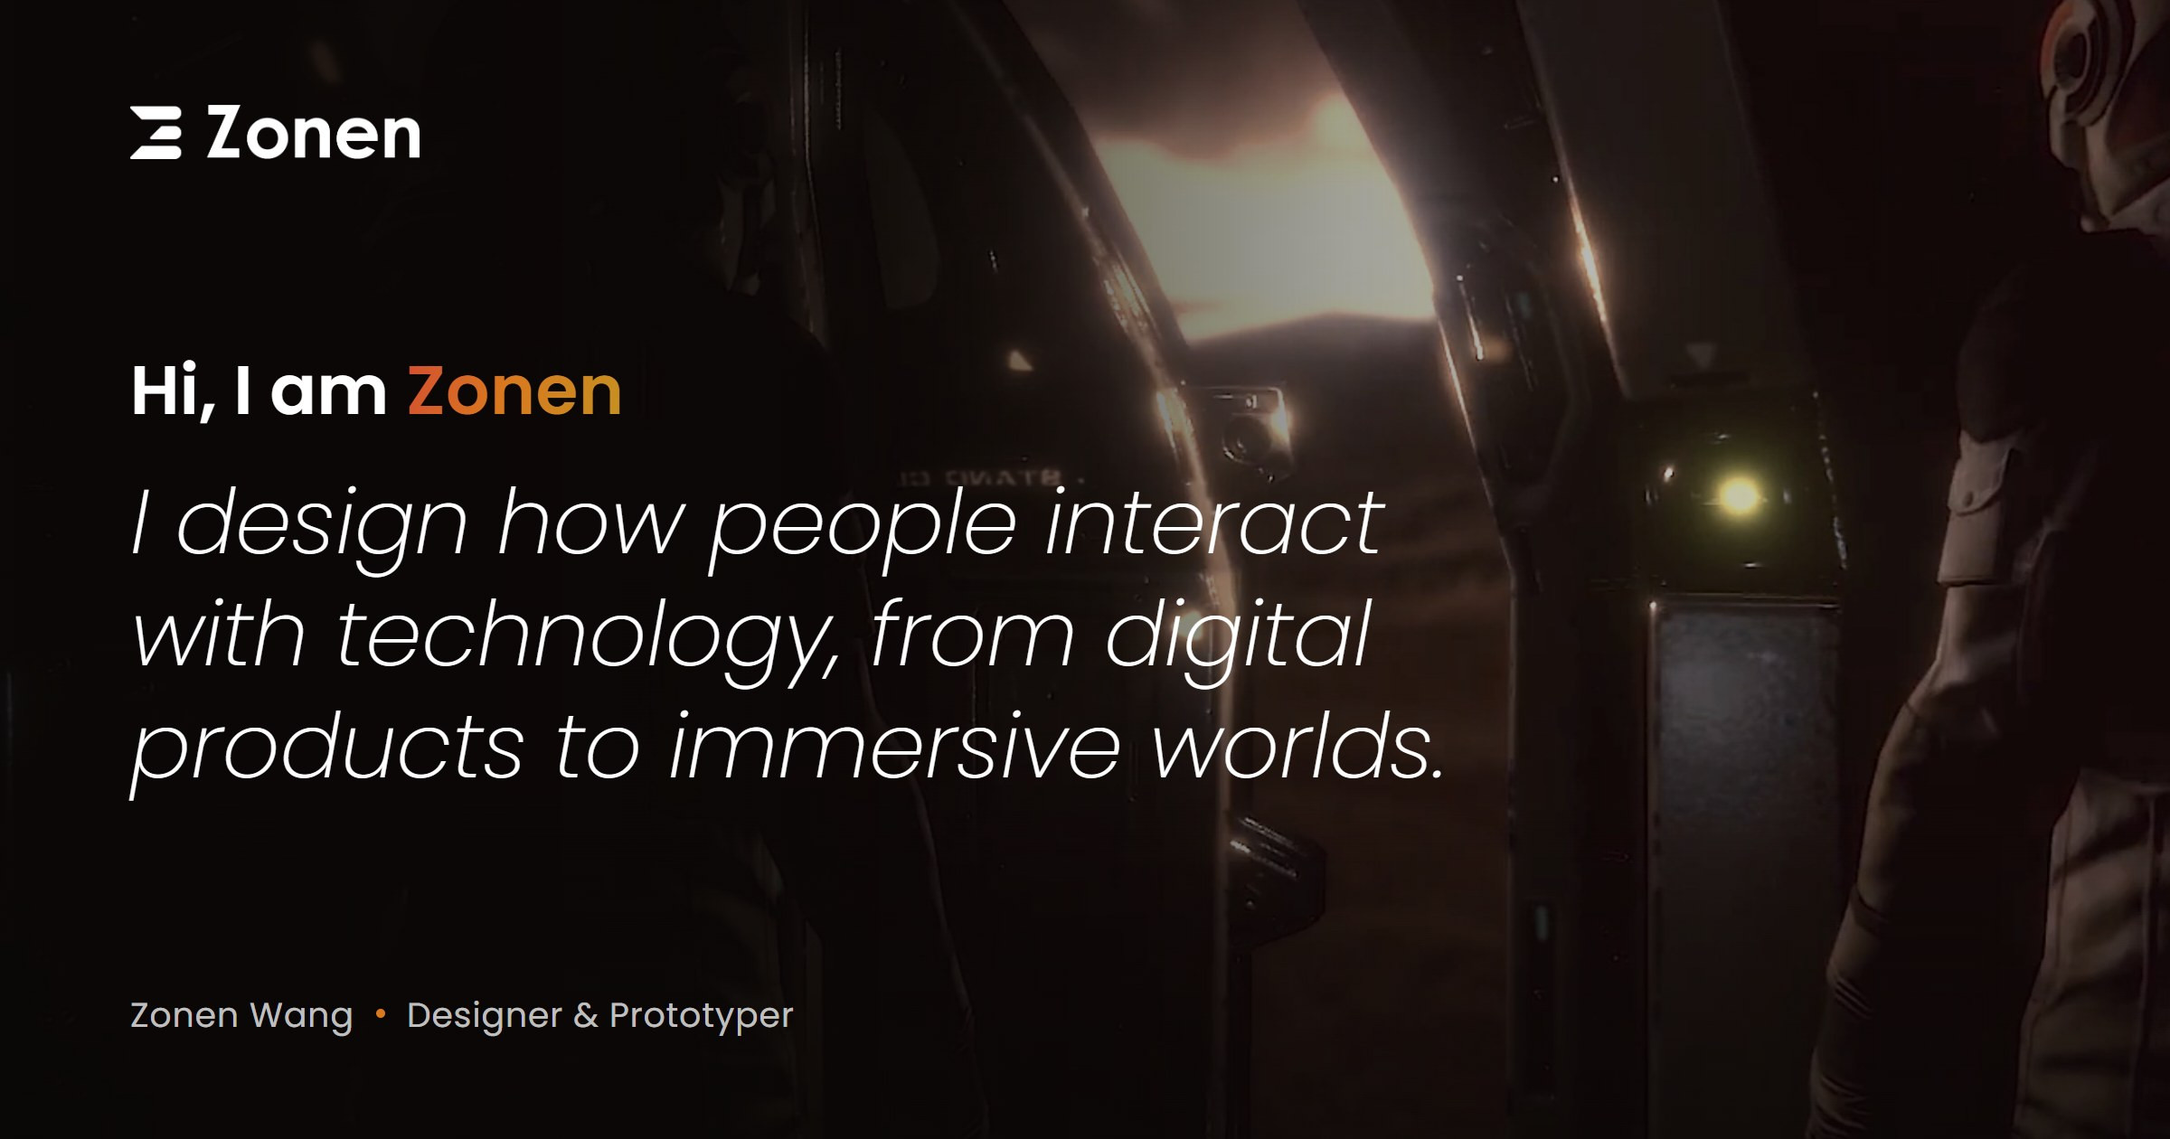
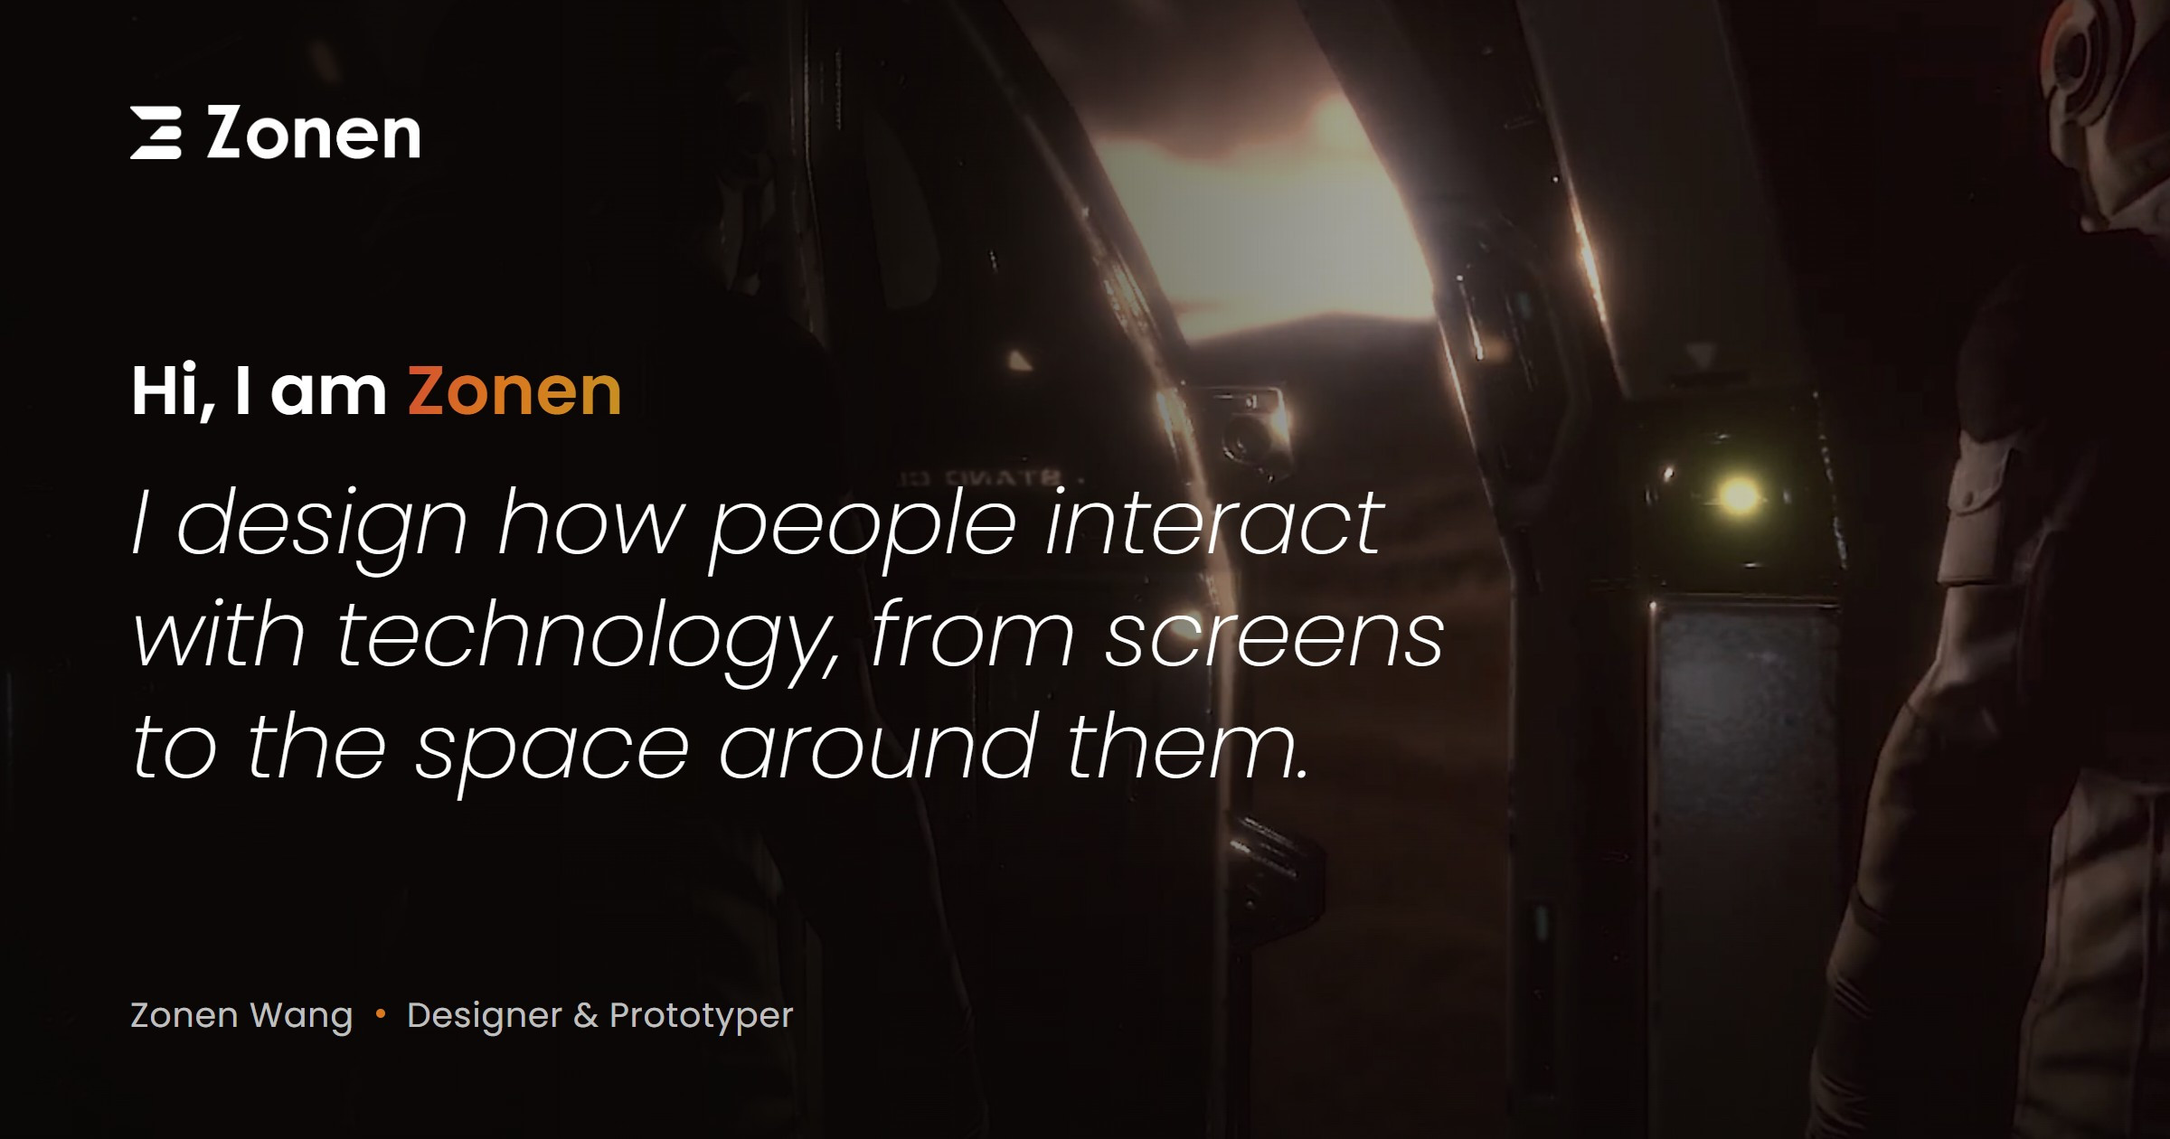
Update home tagline and share image
From 'from digital products to immersive worlds' to 'from screens to the space around them'.

Changed region(s): [[0.0625, 0.619, 0.6562, 0.681], [0.5, 0.5262, 0.6562, 0.5881]]

diff --git a/index.html b/index.html
@@ -27,14 +27,14 @@
 </head>
 <body class="pg-home">
 <div id="top"></div>
-<div class="D"><header class="hdr" style="height:53px"><div class="c" style="left:0;right:0;top:0px;height:53px;background-color:rgb(255, 255, 255);box-shadow:rgba(0, 0, 0, 0.39) 0px 0px 5px 0px"></div><a class="c" href="/" style="left:calc(50% + -678px);width:170px;top:13px;height:32px"><img class="f" src="/assets/img/zonen-header-ebbf03.webp" alt="Zonen Wang — Home" width="170" height="32" loading="lazy" decoding="async" style="object-fit:cover"></a><nav class="c mn" aria-label="Site" style="left:calc(50% + 193px);width:350px;top:8px;height:40px"><a class="mi" href="/" style="left:0px;top:0px;width:98px;height:40px"><span class="t0" style="left:24.52px;top:0px;width:68.48px;height:40px">Home.</span></a><a class="mi" href="/photography" style="left:98px;top:0px;width:153px;height:40px;--hc:rgb(210, 160, 110)"><span class="t1" style="left:24.98px;top:0px;width:123.02px;height:40px">Photography.</span></a><a class="mi" href="/about" style="left:251px;top:0px;width:99px;height:40px;--hc:rgb(210, 160, 110)"><span class="t1" style="left:24.7px;top:0px;width:69.3px;height:40px">About.</span></a></nav><div class="c" style="left:calc(50% + 279px);width:40px;top:19px;height:1px;border-top:1px solid rgba(51, 51, 51, 0.26);transform:matrix(0, 1, -1, 0, 0, 0)"></div><div class="c" style="left:calc(50% + 434.5px);width:40px;top:10.5px;height:10px;border-top:1px solid rgba(51, 51, 51, 0.26);transform:matrix(0, 1, -1, 0, 0, 0)"></div><a class="c btn bd1" href="#bottom" aria-label="Contact" style="left:calc(50% + 567px);width:107px;top:10px;height:32px"><span class="bp p1" style="left:0px;top:0px;width:107px;height:32px;background-color:rgb(255, 255, 255);border-top:1px solid rgb(210, 160, 110);border-right:1px solid rgb(210, 160, 110);border-bottom:1px solid rgb(210, 160, 110);border-left:1px solid rgb(210, 160, 110);border-radius:20px"></span><span class="bp bl p3 t2" style="left:22px;top:5.5px;width:63px;height:21px">Contact</span></a></header><main class="pg" style="height:5037px"><div class="anc" data-a="mr" style="top:3320px"></div><div class="anc" data-a="beyond" style="top:1822px"></div><div class="anc" data-a="tteh" style="top:2572px"></div><div class="anc" data-a="mars" style="top:4070px"></div><div class="anc" data-a="microsoft-mesh" style="top:1073px"></div><div class="c bg" data-px="0.2" style="left:0px;width:calc(100% - 0px);top:0px;height:947px"><video class="f pxm" muted loop playsinline autoplay preload="none" data-src="/assets/video/v-b8393460f2.mp4" poster="/assets/video/v-b8393460f2.webp" style="object-fit:cover;object-position:50% 50%"></video><div class="f" style="background:linear-gradient(90deg, rgba(0, 0, 0, 0.455) 0%, rgba(0, 0, 0, 0.455) 20.0%, rgba(0, 0, 0, 0.434) 27.5%, rgba(0, 0, 0, 0.385) 35.0%, rgba(0, 0, 0, 0.308) 42.5%, rgba(0, 0, 0, 0.231) 50.0%, rgba(0, 0, 0, 0.147) 57.5%, rgba(0, 0, 0, 0.070) 65.0%, rgba(0, 0, 0, 0.021) 72.5%, rgba(0, 0, 0, 0.000) 80.0%, rgba(0, 0, 0, 0.000) 100%)"></div></div><iframe class="c" src="/assets/embed/109903_b6bcd4e0e0bbbe825ba04d945687de17.html" title="Embedded Content" allowfullscreen style="left:calc(50% + -720px);width:497px;top:237px;height:139px"></iframe><div class="c tx t3" style="left:calc(50% + -670px);width:164px;top:283px"><h1 class="t4"><span class="t5"><span><span><span class="t6">Hi, I am&nbsp;</span></span></span></span></h1></div><a class="c btn bd2" href="/about" style="left:calc(50% + -673px);width:368px;top:286px;height:40px"></a><div class="c tx t3" style="left:calc(50% + -670px);width:803px;top:365px"><h1 class="t7"><span class="t8"><span><span><span class="t9"><a href="/about"><span class="t6">I design how people interact with technology, from digital products to immersive worlds.</span></a></span></span></span></span></h1></div><iframe class="c" src="/assets/embed/109903_edf281dc4c96af7ceac7797b8c1a80d2.html" title="Embedded Content" allowfullscreen style="left:calc(50% + -720px);width:114px;top:742px;height:171px"></iframe><a class="c btn bd3" href="#showreel" data-lightbox="vimeo" aria-label="Watch Showreel" style="left:calc(50% + -70px);width:142px;top:836px;height:40px"><span class="bp p1" style="left:0px;top:0px;width:142px;height:40px;background-color:rgba(160, 160, 159, 0.4);border-radius:50px"></span><span class="bp bl p3 ta" style="left:12.5px;top:9.5px;width:116.98px;height:21px">Watch Showreel</span></a><iframe class="c" src="/assets/embed/109903_2af84b2ef0a06e7c054bdfbc6f51e38e.html" title="Embedded Content" allowfullscreen style="left:0px;width:calc(100% - 0px);top:949px;height:4088px"></iframe><div class="c" style="left:calc(50% + 82px);width:24px;top:1025px;height:31px;background-color:rgb(243, 243, 243);border-radius:10px"></div></main><footer class="ftr" style="height:590px"><div class="c" style="left:0;right:0;top:0px;height:590px;background-color:rgb(36, 35, 35)"></div><iframe class="c" src="/assets/embed/109903_bbda5924f918b3c10ad8a4ff717e126e.html" title="Embedded Content" loading="lazy" allowfullscreen style="left:0px;width:calc(100% - 0px);top:8px;height:333px"></iframe><div class="c tx t3" style="left:32px;width:401px;top:191px"><h3 class="tb"><span class="tc">Contact</span></h3>
+<div class="D"><header class="hdr" style="height:53px"><div class="c" style="left:0;right:0;top:0px;height:53px;background-color:rgb(255, 255, 255);box-shadow:rgba(0, 0, 0, 0.39) 0px 0px 5px 0px"></div><a class="c" href="/" style="left:calc(50% + -678px);width:170px;top:13px;height:32px"><img class="f" src="/assets/img/zonen-header-ebbf03.webp" alt="Zonen Wang — Home" width="170" height="32" loading="lazy" decoding="async" style="object-fit:cover"></a><nav class="c mn" aria-label="Site" style="left:calc(50% + 193px);width:350px;top:8px;height:40px"><a class="mi" href="/" style="left:0px;top:0px;width:98px;height:40px"><span class="t0" style="left:24.52px;top:0px;width:68.48px;height:40px">Home.</span></a><a class="mi" href="/photography" style="left:98px;top:0px;width:153px;height:40px;--hc:rgb(210, 160, 110)"><span class="t1" style="left:24.98px;top:0px;width:123.02px;height:40px">Photography.</span></a><a class="mi" href="/about" style="left:251px;top:0px;width:99px;height:40px;--hc:rgb(210, 160, 110)"><span class="t1" style="left:24.7px;top:0px;width:69.3px;height:40px">About.</span></a></nav><div class="c" style="left:calc(50% + 279px);width:40px;top:19px;height:1px;border-top:1px solid rgba(51, 51, 51, 0.26);transform:matrix(0, 1, -1, 0, 0, 0)"></div><div class="c" style="left:calc(50% + 434.5px);width:40px;top:10.5px;height:10px;border-top:1px solid rgba(51, 51, 51, 0.26);transform:matrix(0, 1, -1, 0, 0, 0)"></div><a class="c btn bd1" href="#bottom" aria-label="Contact" style="left:calc(50% + 567px);width:107px;top:10px;height:32px"><span class="bp p1" style="left:0px;top:0px;width:107px;height:32px;background-color:rgb(255, 255, 255);border-top:1px solid rgb(210, 160, 110);border-right:1px solid rgb(210, 160, 110);border-bottom:1px solid rgb(210, 160, 110);border-left:1px solid rgb(210, 160, 110);border-radius:20px"></span><span class="bp bl p3 t2" style="left:22px;top:5.5px;width:63px;height:21px">Contact</span></a></header><main class="pg" style="height:5037px"><div class="anc" data-a="mr" style="top:3320px"></div><div class="anc" data-a="beyond" style="top:1822px"></div><div class="anc" data-a="tteh" style="top:2572px"></div><div class="anc" data-a="mars" style="top:4070px"></div><div class="anc" data-a="microsoft-mesh" style="top:1073px"></div><div class="c bg" data-px="0.2" style="left:0px;width:calc(100% - 0px);top:0px;height:947px"><video class="f pxm" muted loop playsinline autoplay preload="none" data-src="/assets/video/v-b8393460f2.mp4" poster="/assets/video/v-b8393460f2.webp" style="object-fit:cover;object-position:50% 50%"></video><div class="f" style="background:linear-gradient(90deg, rgba(0, 0, 0, 0.455) 0%, rgba(0, 0, 0, 0.455) 20.0%, rgba(0, 0, 0, 0.434) 27.5%, rgba(0, 0, 0, 0.385) 35.0%, rgba(0, 0, 0, 0.308) 42.5%, rgba(0, 0, 0, 0.231) 50.0%, rgba(0, 0, 0, 0.147) 57.5%, rgba(0, 0, 0, 0.070) 65.0%, rgba(0, 0, 0, 0.021) 72.5%, rgba(0, 0, 0, 0.000) 80.0%, rgba(0, 0, 0, 0.000) 100%)"></div></div><iframe class="c" src="/assets/embed/109903_b6bcd4e0e0bbbe825ba04d945687de17.html" title="Embedded Content" allowfullscreen style="left:calc(50% + -720px);width:497px;top:237px;height:139px"></iframe><div class="c tx t3" style="left:calc(50% + -670px);width:164px;top:283px"><h1 class="t4"><span class="t5"><span><span><span class="t6">Hi, I am&nbsp;</span></span></span></span></h1></div><a class="c btn bd2" href="/about" style="left:calc(50% + -673px);width:368px;top:286px;height:40px"></a><div class="c tx t3" style="left:calc(50% + -670px);width:803px;top:365px"><h1 class="t7"><span class="t8"><span><span><span class="t9"><a href="/about"><span class="t6">I design how people interact with technology, from screens to the space around them.</span></a></span></span></span></span></h1></div><iframe class="c" src="/assets/embed/109903_edf281dc4c96af7ceac7797b8c1a80d2.html" title="Embedded Content" allowfullscreen style="left:calc(50% + -720px);width:114px;top:742px;height:171px"></iframe><a class="c btn bd3" href="#showreel" data-lightbox="vimeo" aria-label="Watch Showreel" style="left:calc(50% + -70px);width:142px;top:836px;height:40px"><span class="bp p1" style="left:0px;top:0px;width:142px;height:40px;background-color:rgba(160, 160, 159, 0.4);border-radius:50px"></span><span class="bp bl p3 ta" style="left:12.5px;top:9.5px;width:116.98px;height:21px">Watch Showreel</span></a><iframe class="c" src="/assets/embed/109903_2af84b2ef0a06e7c054bdfbc6f51e38e.html" title="Embedded Content" allowfullscreen style="left:0px;width:calc(100% - 0px);top:949px;height:4088px"></iframe><div class="c" style="left:calc(50% + 82px);width:24px;top:1025px;height:31px;background-color:rgb(243, 243, 243);border-radius:10px"></div></main><footer class="ftr" style="height:590px"><div class="c" style="left:0;right:0;top:0px;height:590px;background-color:rgb(36, 35, 35)"></div><iframe class="c" src="/assets/embed/109903_bbda5924f918b3c10ad8a4ff717e126e.html" title="Embedded Content" loading="lazy" allowfullscreen style="left:0px;width:calc(100% - 0px);top:8px;height:333px"></iframe><div class="c tx t3" style="left:32px;width:401px;top:191px"><h3 class="tb"><span class="tc">Contact</span></h3>
 
 <h3 class="tb"><span class="tc">me</span></h3></div><div class="c" style="left:calc(50% + -130px);width:419px;top:316px;height:12px;background-color:rgb(255, 255, 255)"></div><a class="c" href="mailto:wangzhuoneng@gmail.com" aria-label="mail-icon-white-23 copy" style="left:calc(50% + -130px);width:39px;top:208px;height:39px"><img class="f" src="/assets/img/109903-87475da7c7e04d47bedc58340196479f--ee0b17.webp" alt="mail-icon-white-23 copy" width="39" height="39" loading="lazy" decoding="async" style="object-fit:cover"></a><a class="c" href="https://www.linkedin.com/in/zhuonengwang/" target="_blank" rel="noopener" aria-label="LinkedIn" style="left:calc(50% + -59px);width:39px;top:208px;height:39px"><img class="f" src="/assets/img/f61c7a3b4b4947b28511a25034973383-2ff2f0.webp" alt="LinkedIn" width="39" height="39" loading="lazy" decoding="async" style="object-fit:cover"></a><a class="c" href="https://www.instagram.com/znwang_/" target="_blank" rel="noopener" aria-label="Instagram" style="left:calc(50% + 12px);width:39px;top:208px;height:39px"><img class="f" src="/assets/img/da7ef6dd1302486c9a67baebe4b364bc-6ecc4a.webp" alt="Instagram" width="39" height="39" loading="lazy" decoding="async" style="object-fit:cover"></a><a class="c" href="https://www.facebook.com/profile.php?id=100005697484093" target="_blank" rel="noopener" aria-label="Facebook" style="left:calc(50% + 83px);width:39px;top:208px;height:39px"><img class="f" src="/assets/img/e0678ef25486466ba65ef6ad47b559e1-b30659.webp" alt="Facebook" width="39" height="39" loading="lazy" decoding="async" style="object-fit:cover"></a><img class="c" src="/assets/img/zhuoneng-revision-2-logo-only-white-c1678e.webp" alt="Zonen Revision 2 Logo only white" width="91" height="92" loading="lazy" decoding="async" style="right:32px;width:91px;top:191px;height:92px;object-fit:cover"><div class="c tx t3" style="left:calc(50% + -130px);width:499px;top:380px"><p class="td"><span class="te"><span><span class="tf"><a href="mailto:wangzhuoneng@gmail.com">wangzhuoneng@gmail.com</a></span></span></span></p></div></footer><div class="fxl"><a class="c btn bd4" href="#top" aria-label="Up" style="position:fixed;right:7px;bottom:44px;width:36px;height:36px;z-index:53;translate:min(0px,calc((1440px - var(--cw,100vw))/2 + 17px)) 0"><span class="bp p1" style="left:0px;top:0px;width:36px;height:36px;background-color:rgba(243, 243, 243, 0.35);border-radius:200px;box-shadow:rgb(0, 0, 0) 0px 0px 15px -10px"></span><span class="bp p6" style="left:7.5px;top:7.5px;width:21px;height:21px"><svg viewBox="0 0 200 200" height="100%" width="100%" xmlns="http://www.w3.org/2000/svg">
     <g fill="rgb(0, 0, 0)" stroke="none">
         <path d="M177.687 128.054L105.35 61.402a7.205 7.205 0 0 0-5.35-1.886 7.198 7.198 0 0 0-5.349 1.886l-72.338 66.652a7.165 7.165 0 0 0-.407 10.138 7.172 7.172 0 0 0 5.283 2.309c1.743 0 3.49-.629 4.872-1.902L100 75.999l67.939 62.598a7.197 7.197 0 0 0 10.155-.406 7.163 7.163 0 0 0-.407-10.137z" fill="rgb(0, 0, 0)" stroke="none"></path>
     </g>
 </svg></span></a></div></div>
-<div class="M"><header class="hdr" style="height:50px"><div class="c" style="left:0;right:0;top:0px;height:50px;background-color:rgb(255, 255, 255);box-shadow:rgba(0, 0, 0, 0.39) 0px 0px 5px 0px"></div><a class="c" href="/" style="left:117px;width:120px;top:10px;height:23px"><img class="f" src="/assets/img/zonen-header-24da62.webp" alt="Zonen Wang — Home" width="120" height="23" loading="lazy" decoding="async" style="object-fit:cover"></a><button class="hb" aria-label="Open navigation menu" aria-expanded="false"><i></i><i></i><i></i></button><div class="mm" hidden><div class="mm-ov"></div><nav class="mm-dr" aria-label="Site"><a href="/" class="on" style="top:92px">Home.</a><a href="/photography" style="top:148px">Photography.</a><a href="/about" style="top:204px">About.</a></nav></div></header><main class="pg" style="height:2182.69px"><div class="c bg" style="left:0px;width:320px;top:0px;height:216px"><video class="f" muted loop playsinline autoplay preload="none" data-src="/assets/video/v-b8393460f2.mp4" poster="/assets/video/v-b8393460f2.webp" style="object-fit:cover;object-position:50% 50%"></video><div class="f" style="background:linear-gradient(90deg, rgba(0, 0, 0, 0.385) 0%, rgba(0, 0, 0, 0.385) 10.0%, rgba(0, 0, 0, 0.378) 20.6%, rgba(0, 0, 0, 0.357) 31.2%, rgba(0, 0, 0, 0.329) 41.9%, rgba(0, 0, 0, 0.294) 52.5%, rgba(0, 0, 0, 0.266) 63.1%, rgba(0, 0, 0, 0.238) 73.8%, rgba(0, 0, 0, 0.217) 84.4%, rgba(0, 0, 0, 0.210) 95.0%, rgba(0, 0, 0, 0.210) 100%)"></div></div><iframe class="c" src="/assets/embed/109903_ea360afa297e36c4a1ff7d394d878914.html" title="Embedded Content" allowfullscreen style="left:63px;width:126px;top:35px;height:32px"></iframe><div class="c tx t3" style="left:20px;width:64px;top:40px"><h1 class="t10"><span class="t5"><span><span><span class="t6">Hi, I am&nbsp;</span></span></span></span></h1></div><div class="c tx t3" style="left:20px;width:270px;top:71px"><h1 class="t11"><span class="t8"><span><span><span class="t9"><a href="/about"><span class="t6">I design how people interact with technology, from digital products to immersive worlds.</span></a></span></span></span></span></h1></div><div class="c" style="left:0px;width:320px;top:240px;height:162px;background-color:rgb(242, 243, 244);border-top:1px solid rgb(221, 224, 227);border-right:1px solid rgb(221, 224, 227);border-bottom:1px solid rgb(221, 224, 227);border-left:1px solid rgb(221, 224, 227)"></div><div class="c sv" style="left:148px;width:24px;top:260px;height:24px"><svg preserveAspectRatio="xMidYMid meet" stroke-linejoin="round" stroke-linecap="round" stroke-width="2" stroke="#454545" viewBox="0 0 24 24" height="100%" width="100%" xmlns="http://www.w3.org/2000/svg" role="presentation" aria-hidden="true" aria-label="">
+<div class="M"><header class="hdr" style="height:50px"><div class="c" style="left:0;right:0;top:0px;height:50px;background-color:rgb(255, 255, 255);box-shadow:rgba(0, 0, 0, 0.39) 0px 0px 5px 0px"></div><a class="c" href="/" style="left:117px;width:120px;top:10px;height:23px"><img class="f" src="/assets/img/zonen-header-24da62.webp" alt="Zonen Wang — Home" width="120" height="23" loading="lazy" decoding="async" style="object-fit:cover"></a><button class="hb" aria-label="Open navigation menu" aria-expanded="false"><i></i><i></i><i></i></button><div class="mm" hidden><div class="mm-ov"></div><nav class="mm-dr" aria-label="Site"><a href="/" class="on" style="top:92px">Home.</a><a href="/photography" style="top:148px">Photography.</a><a href="/about" style="top:204px">About.</a></nav></div></header><main class="pg" style="height:2182.69px"><div class="c bg" style="left:0px;width:320px;top:0px;height:216px"><video class="f" muted loop playsinline autoplay preload="none" data-src="/assets/video/v-b8393460f2.mp4" poster="/assets/video/v-b8393460f2.webp" style="object-fit:cover;object-position:50% 50%"></video><div class="f" style="background:linear-gradient(90deg, rgba(0, 0, 0, 0.385) 0%, rgba(0, 0, 0, 0.385) 10.0%, rgba(0, 0, 0, 0.378) 20.6%, rgba(0, 0, 0, 0.357) 31.2%, rgba(0, 0, 0, 0.329) 41.9%, rgba(0, 0, 0, 0.294) 52.5%, rgba(0, 0, 0, 0.266) 63.1%, rgba(0, 0, 0, 0.238) 73.8%, rgba(0, 0, 0, 0.217) 84.4%, rgba(0, 0, 0, 0.210) 95.0%, rgba(0, 0, 0, 0.210) 100%)"></div></div><iframe class="c" src="/assets/embed/109903_ea360afa297e36c4a1ff7d394d878914.html" title="Embedded Content" allowfullscreen style="left:63px;width:126px;top:35px;height:32px"></iframe><div class="c tx t3" style="left:20px;width:64px;top:40px"><h1 class="t10"><span class="t5"><span><span><span class="t6">Hi, I am&nbsp;</span></span></span></span></h1></div><div class="c tx t3" style="left:20px;width:270px;top:71px"><h1 class="t11"><span class="t8"><span><span><span class="t9"><a href="/about"><span class="t6">I design how people interact with technology, from screens to the space around them.</span></a></span></span></span></span></h1></div><div class="c" style="left:0px;width:320px;top:240px;height:162px;background-color:rgb(242, 243, 244);border-top:1px solid rgb(221, 224, 227);border-right:1px solid rgb(221, 224, 227);border-bottom:1px solid rgb(221, 224, 227);border-left:1px solid rgb(221, 224, 227)"></div><div class="c sv" style="left:148px;width:24px;top:260px;height:24px"><svg preserveAspectRatio="xMidYMid meet" stroke-linejoin="round" stroke-linecap="round" stroke-width="2" stroke="#454545" viewBox="0 0 24 24" height="100%" width="100%" xmlns="http://www.w3.org/2000/svg" role="presentation" aria-hidden="true" aria-label="">
     <g fill="rgb(0, 0, 0)" stroke="rgb(69, 69, 69)" stroke-width="2px">
         <path d="M22 5v10a2 2 0 0 1-2 2H4a2 2 0 0 1-2-2V5a2 2 0 0 1 2-2h16a2 2 0 0 1 2 2" fill="none" stroke="rgb(69, 69, 69)" stroke-width="2px"></path>
         <path d="M8 21h8" fill="none" stroke="rgb(69, 69, 69)" stroke-width="2px"></path>
